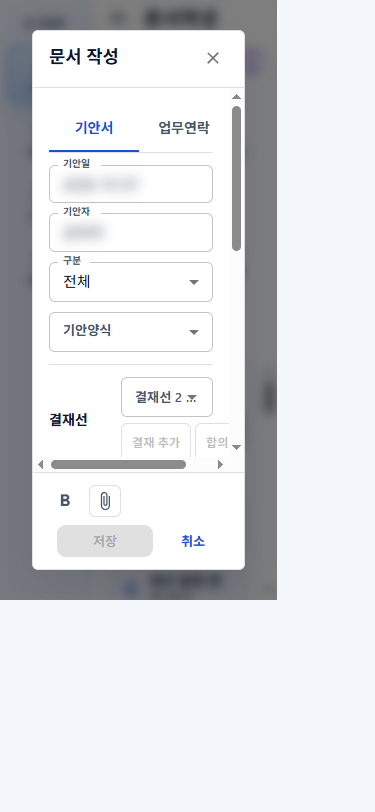
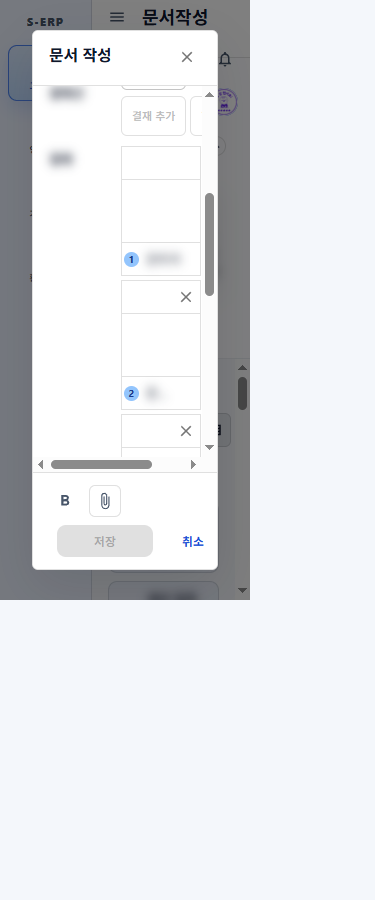
문서작성 결재선 진행중

Changed region(s): [[0.0, 0.0, 0.7627, 0.7389], [0.176, 0.4002, 0.2933, 0.431]]

diff --git a/docs/result/20261007/document-composer-approval-stage/20261007_007_문서작성_결재단계_중복방지_초기결재자_결과.md b/docs/result/20261007/document-composer-approval-stage/20261007_007_문서작성_결재단계_중복방지_초기결재자_결과.md
@@ -53,3 +53,28 @@
   - `git diff --check` — 통과. 변경 파일 Problems 진단 — 오류 없음.
 - 브라우저 반응형 확인: 375px/768px/1280px에서 고정 기안자 이름 콘텐츠 너비가 셀 너비를 넘지 않았고, 문서 전체 가로 overflow가 없었다. 화면 표시 사용자명과 입력 값은 흐림 처리해 스크린샷을 갱신했다.
 - 스크린샷은 빈 슬롯의 세 시각 영역이 비어 있고, 고정 기안자 행이 정상 폭으로 표시되는 현재 상태를 담는다.
+
+## 후속 보완: 프로필 ID 식별 및 참여자 호버 삭제
+
+- 원인: 프로필 API의 `userId`는 로그인 코드(`tb_login_account.login_code`)인 반면, 결재 후보의 `userId`는 내부 사용자 키(`tb_user.user_id`)였다. 서로 다른 식별자를 비교해 로그인 기안자가 결재·합의·참조 후보에 남았다.
+- 조치: 프로필 응답에 인증된 사용자의 내부 키를 `employeeId`로 추가하고 기존 `userId` 의미는 유지했다. 작성 화면은 정규화한 `employeeId`와 후보 사용자 ID를 비교하며, 이름 기준 제외는 하지 않는다. 기안자 후보가 제공되지 않는 경우에도 프로필 정보로 고정 1번 결재자를 구성하며 삭제 버튼은 표시하지 않는다.
+- 삭제 UX: 비고정 결재자의 X는 직위 행 오른쪽에 배치하고, 합의자 삭제 아이콘도 X로 통일했다. 데스크톱에서 기본 opacity 0, 항목 호버 시 opacity 1을 확인했고, 터치 에뮬레이션에서는 `(hover: none)`/`(pointer: coarse)`가 참인 상태에서 결재·합의 X 모두 opacity 1로 표시됨을 확인했다. 키보드 포커스 표시는 관련 Vitest 회귀 테스트로 검증했다.
+- 브라우저 반응형 검증:
+  - 375px: 모달 너비 311px, `hover: none` 및 `pointer: coarse`, 화면 전체 가로 overflow 없음. 터치에서 결재/합의 X 상시 표시를 확인했다.
+  - 768px: 모달 너비 704px, 화면 전체 가로 overflow 없음.
+  - 1280px: 모달 너비 990px, 화면 전체 가로 overflow 없음.
+  - 삭제 버튼은 데스크톱에서 호버 전 opacity 0, 호버 후 opacity 1이었다. 삭제 후 후보 복원 및 단계 순번 동작은 문서작성 테스트에서 확인했다.
+- 검증 명령:
+  - `cd backend; mvn -Dtest=ProfileSettingsApiControllerTest test` — 2개 테스트 통과.
+  - `cd frontend; npx vitest run tests/document-write-page.test.tsx tests/profile-settings.service.test.ts tests/profile-settings-page.test.tsx --testTimeout=15000` — 45개 테스트 통과.
+  - 변경 대상 파일 `npm run lint -- ...` — 통과.
+  - `npm run build` — TypeScript 검사 및 Vite 빌드 통과.
+  - `git diff --check` — 통과.
+- DB 확인은 기존 테이블의 컬럼 메타데이터에 한정했다. `tb_user.user_id`와 `tb_login_account.login_code`의 타입·역할을 확인했으며 사용자 데이터 행은 조회하지 않았다. 스키마 변경이 없어 마이그레이션은 없다.
+- 반응형 스크린샷은 기안자 및 참여자 표시 문자열·입력 값을 흐림 처리했다. 모바일은 X 표시를 확인할 수 있도록 모달의 결재 영역으로 스크롤한 상태다.
+
+## 프로필 ID 및 호버 삭제 스크린샷
+
+- [375px 모바일](./screenshots/approval-stage-375.png)
+- [768px 태블릿](./screenshots/approval-stage-768.png)
+- [1280px 데스크톱](./screenshots/approval-stage-1280.png)
